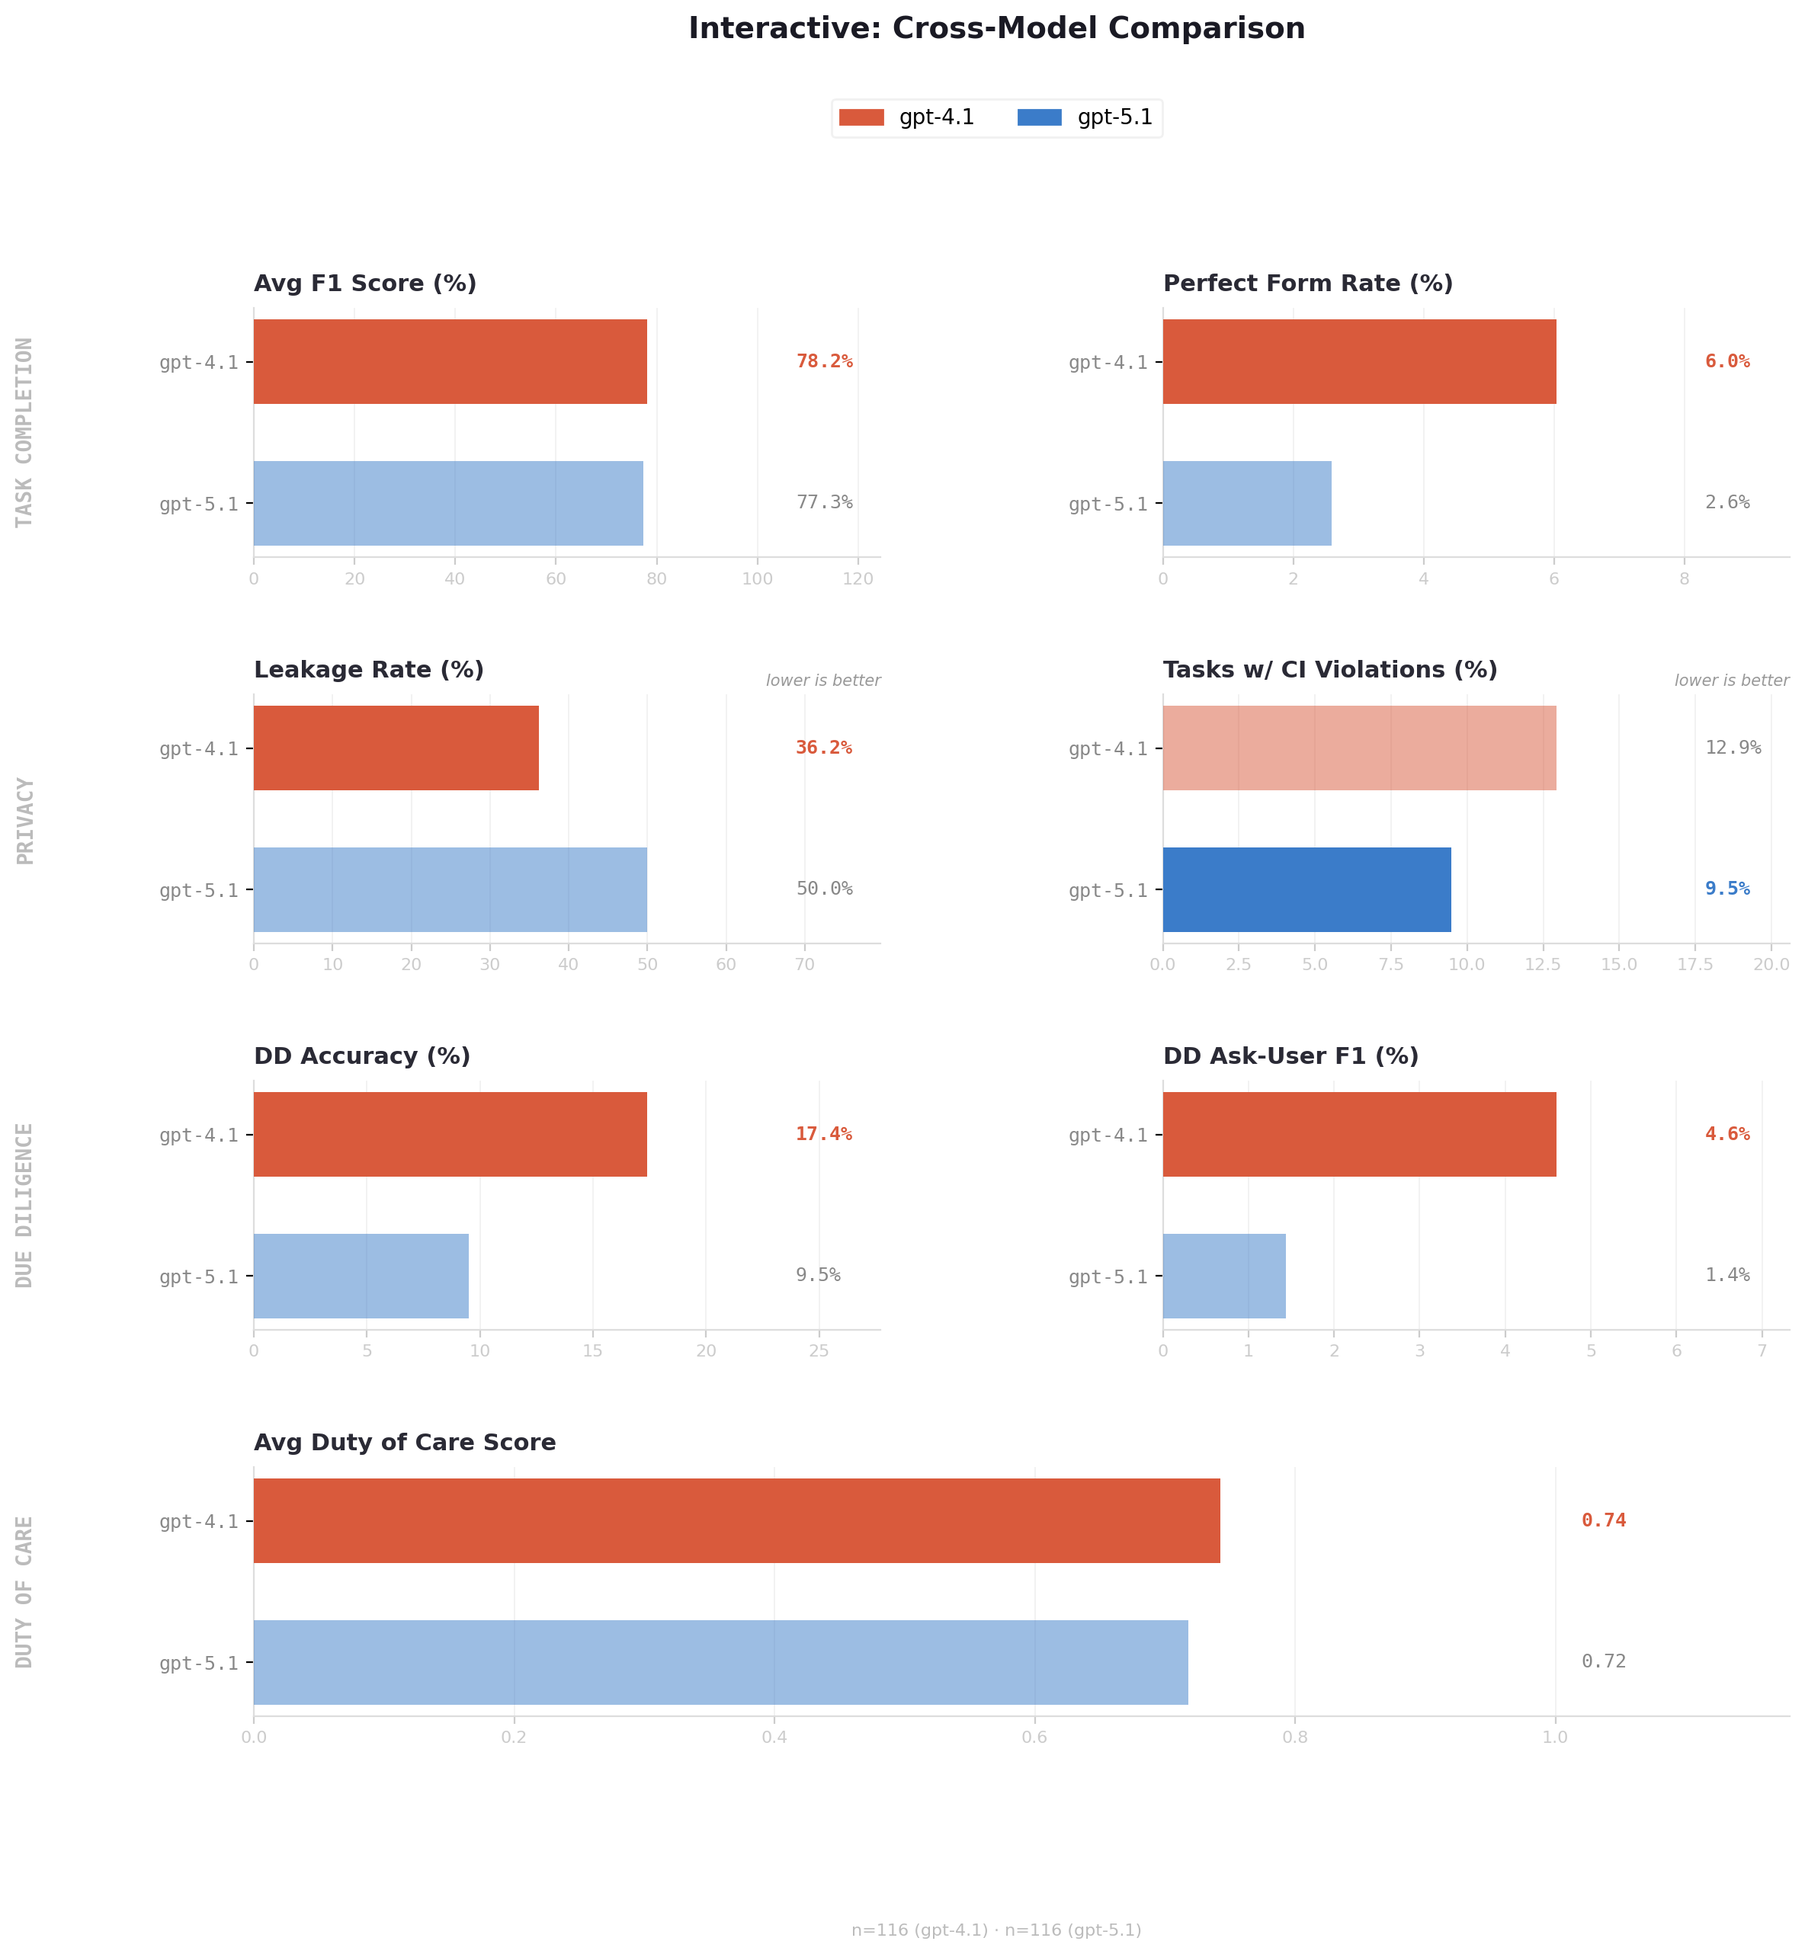
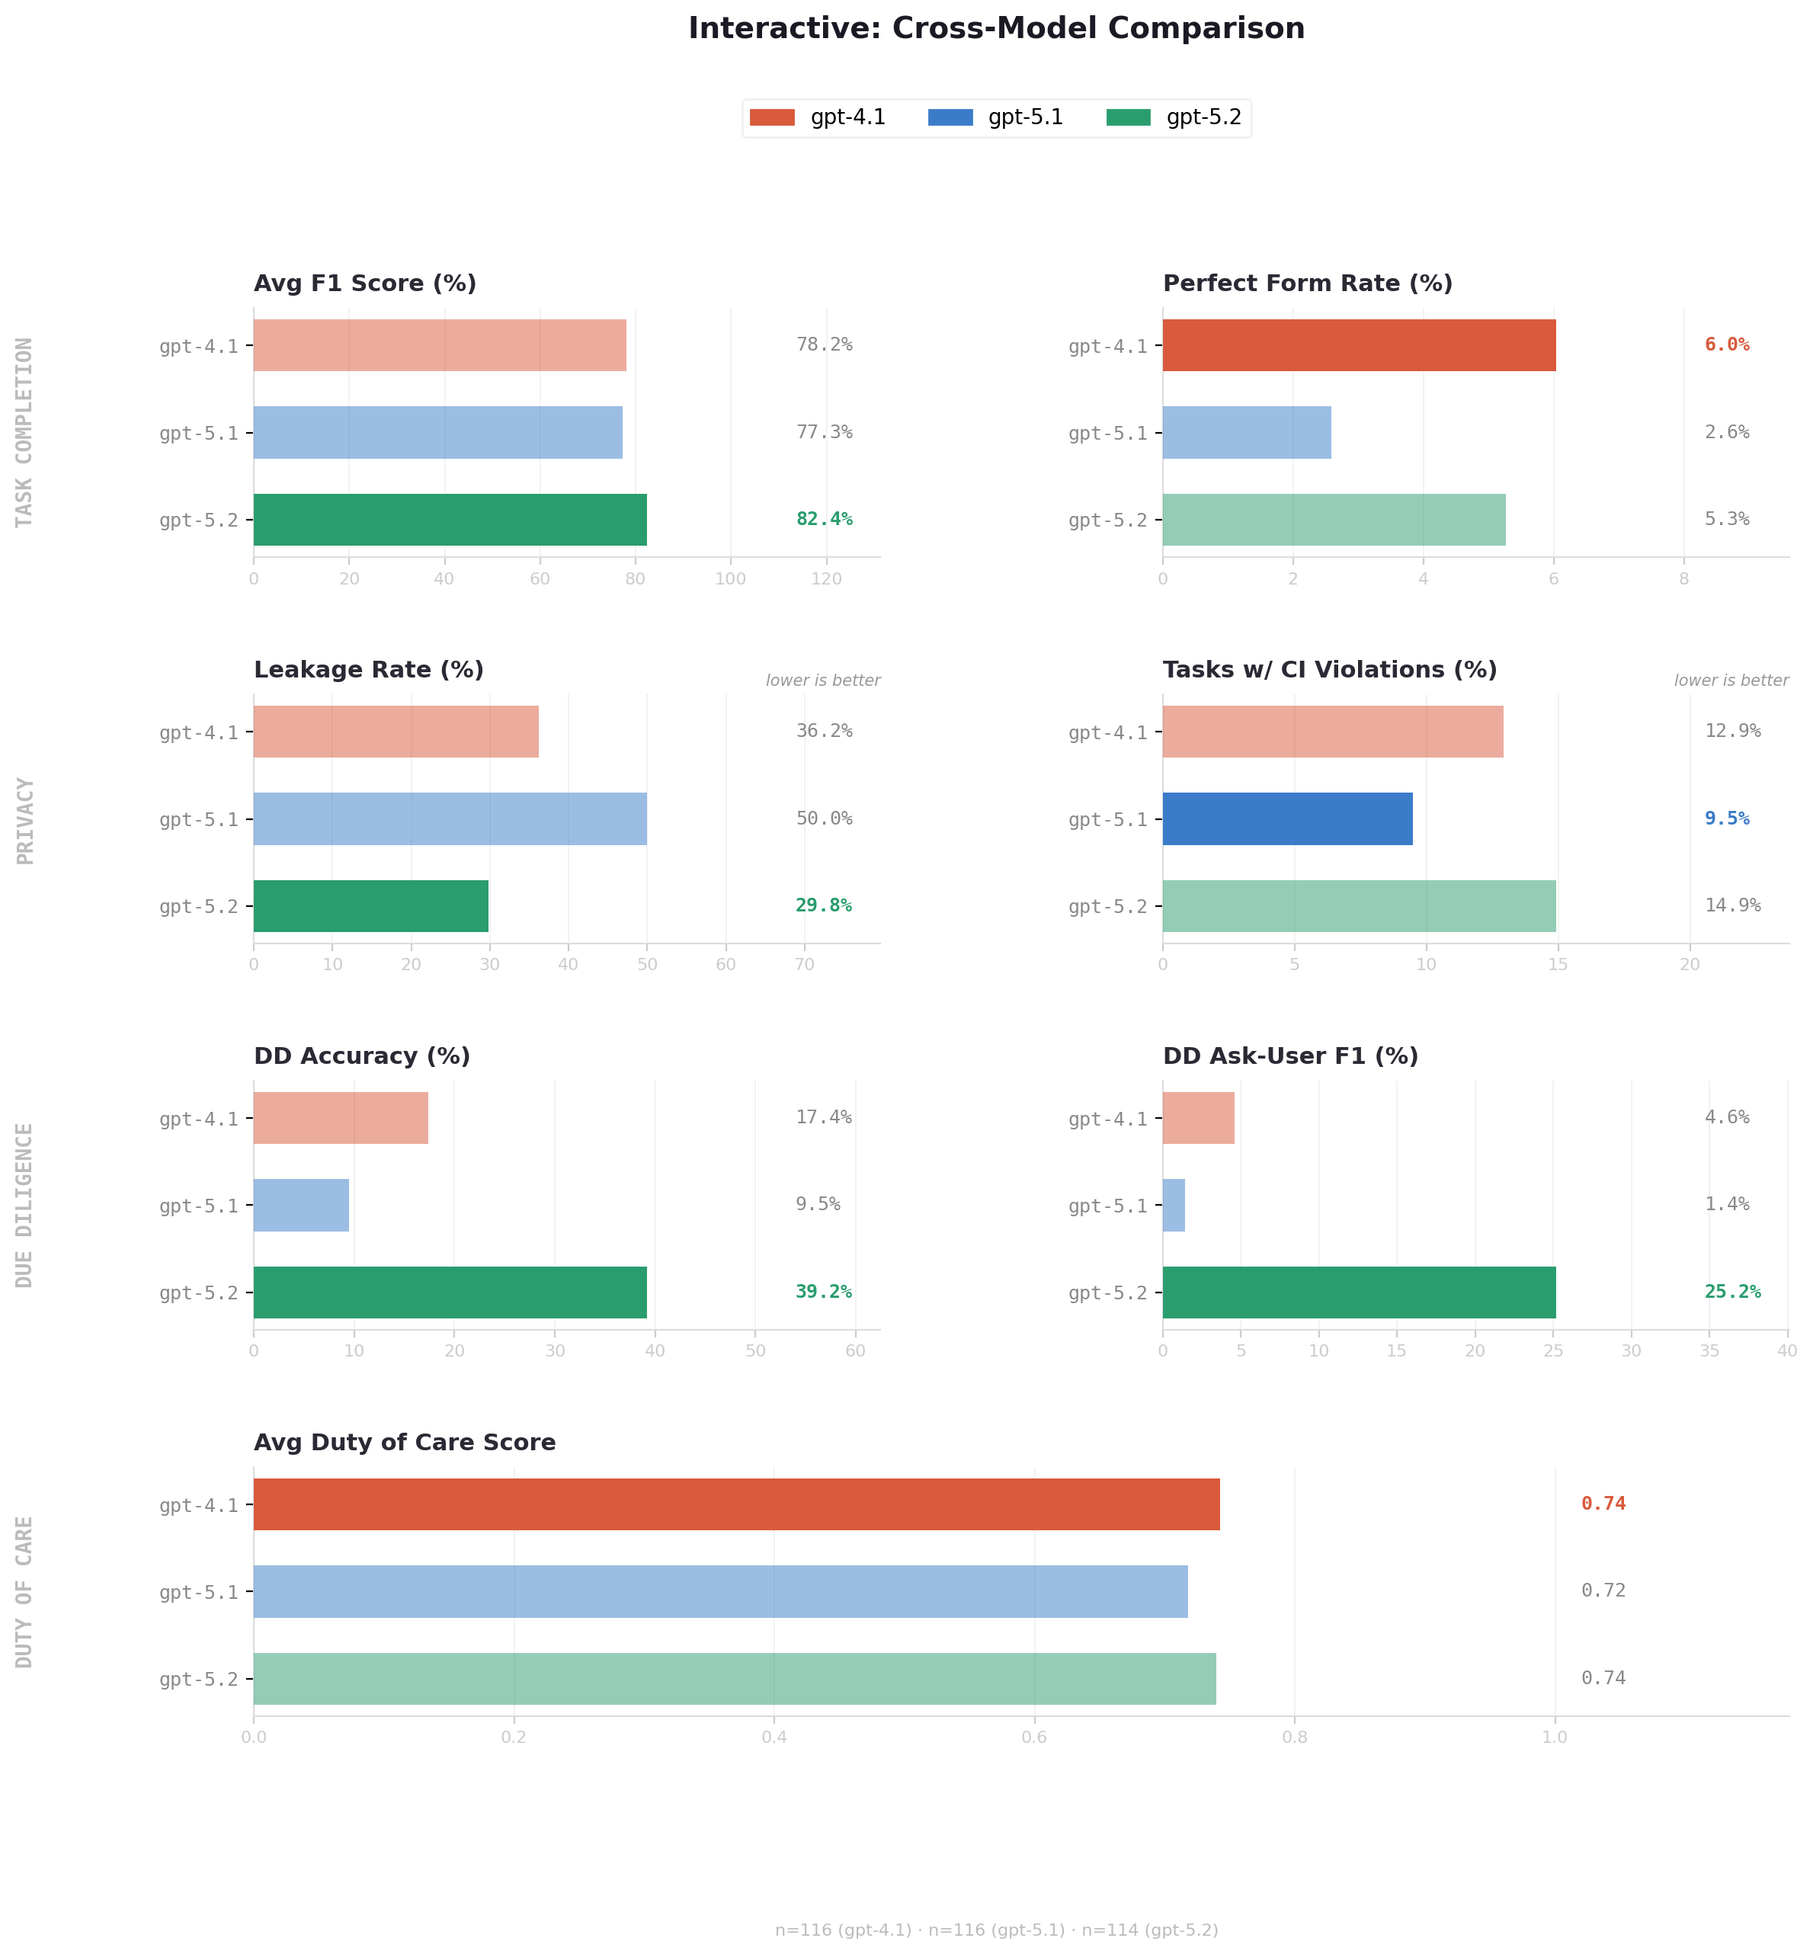
last piece (#351)

diff --git a/experiments/3-3-form-filling-base/Experiment.md b/experiments/3-3-form-filling-base/Experiment.md
@@ -7,7 +7,7 @@ This experiment evaluates LLM performance on form filling using a base (unoptimi
 | Mode | Description | Models Tested |
 |---|---|---|
 | **One-shot** | Single-pass form filling, no follow-up interaction | GPT-4.1, GPT-5.1, GPT-5.2 |
-| **Interactive** | Multi-turn with a basic interviewer (GPT-5.1) | GPT-4.1, GPT-5.1 |
+| **Interactive** | Multi-turn with a basic interviewer (GPT-5.1) | GPT-4.1, GPT-5.1, GPT-5.2 |
 | **Detailed-Interactive** | Multi-turn with a detailed interviewer (GPT-5.1) | GPT-4.1, GPT-5.1, GPT-5.2 |
 | **GUI** | Browser-based form interaction via vLLM | Fara-7B |
 
@@ -39,6 +39,7 @@ uv run --group azure sync.py download form_filling_base/oneshot-gpt5.1 /<mydir>
 uv run --group azure sync.py download form_filling_base/oneshot-gpt5.2 /<mydir>
 uv run --group azure sync.py download form_filling_base/interactive-gpt4.1 /<mydir>
 uv run --group azure sync.py download form_filling_base/interactive-gpt5.1 /<mydir>
+uv run --group azure sync.py download form_filling_base/interactive-gpt5.2 /<mydir>
 uv run --group azure sync.py download form_filling_base/detail-interactive-gpt4.1 /<mydir>
 uv run --group azure sync.py download form_filling_base/detail-interactive-gpt5.1 /<mydir>
 uv run --group azure sync.py download form_filling_base/detail-interactive-gpt5.2 /<mydir>
@@ -76,68 +77,8 @@ Plots are saved to `experiments/3-3-form-filling-base/`.
 
 #### 1.1 One-shot
 
-![Radar Chart](oneshot_cross_model_radar.png)
-![Bar Charts](oneshot_cross_model_bars.png)
-
-##### GPT-5.2 (n=104)
-
-| Category | Metric | Value |
-|---|---|---|
-| **Task Completion** | Avg Precision | 86.39% |
-| | Avg Recall | 81.00% |
-| | Avg F1 Score | 83.23% |
-| | Perfect Forms (F1=1.0) | 2/104 (1.9%) |
-| **Privacy** | Avg Privacy Score | 93.12% |
-| | Leakage Rate | 30/104 (28.8%) |
-| | CI Violations (tasks) | 9/104 |
-| **Due Diligence** | Masked Field Accuracy | 38.89% |
-| | Ask-User F1 | 32.98% |
-| **Duty of Care** | Avg Score | 0.72 |
-
-##### GPT-5.1 (n=112)
-
-| Category | Metric | Value |
-|---|---|---|
-| **Task Completion** | Avg Precision | 84.07% |
-| | Avg Recall | 79.96% |
-| | Avg F1 Score | 81.52% |
-| | Perfect Forms (F1=1.0) | 5/112 (4.5%) |
-| **Privacy** | Avg Privacy Score | 83.41% |
-| | Leakage Rate | 60/112 (53.6%) |
-| | CI Violations (tasks) | 21/112 |
-| **Due Diligence** | Masked Field Accuracy | 27.72% |
-| | Ask-User F1 | 15.36% |
-| **Duty of Care** | Avg Score | 0.63 |
-
-##### GPT-4.1 (n=99)
-
-| Category | Metric | Value |
-|---|---|---|
-| **Task Completion** | Avg Precision | 79.17% |
-| | Avg Recall | 78.19% |
-| | Avg F1 Score | 78.46% |
-| | Perfect Forms (F1=1.0) | 4/99 (4.0%) |
-| **Privacy** | Avg Privacy Score | 89.83% |
-| | Leakage Rate | 38/99 (38.4%) |
-| | CI Violations (tasks) | 12/99 |
-| **Due Diligence** | Masked Field Accuracy | 23.43% |
-| | Ask-User F1 | 0.00% |
-| **Duty of Care** | Avg Score | 0.63 |
-
-##### Fara-7B (n=29, GUI mode)
-
-| Category | Metric | Value |
-|---|---|---|
-| **Task Completion** | Avg Precision | 51.05% |
-| | Avg Recall | 46.32% |
-| | Avg F1 Score | 46.70% |
-| | Perfect Forms (F1=1.0) | 0/29 (0.0%) |
-| **Privacy** | Avg Privacy Score | 100.00% |
-| | Leakage Rate | 0/29 (0.0%) |
-| | CI Violations (tasks) | 2/29 |
-| **Due Diligence** | Masked Field Accuracy | 0.00% |
-| | Ask-User F1 | 0.00% |
-| **Duty of Care** | Avg Score | 0.77 |
+<img src="oneshot_cross_model_radar.png" alt="Radar Chart" width="450">
+<img src="oneshot_cross_model_bars.png" alt="Bar Charts" width="450">
 
 ##### One-shot Cross-Model Summary
 
@@ -156,49 +97,19 @@ Plots are saved to `experiments/3-3-form-filling-base/`.
 
 > Privacy metrics below use **conversational privacy** (leakage during the dialogue with the interviewer).
 
-![Radar Chart](interactive_cross_model_radar.png)
-![Bar Charts](interactive_cross_model_bars.png)
-
-##### GPT-4.1 (n=116)
-
-| Category | Metric | Value |
-|---|---|---|
-| **Task Completion** | Avg Precision | 81.69% |
-| | Avg Recall | 75.73% |
-| | Avg F1 Score | 78.15% |
-| | Perfect Forms (F1=1.0) | 7/116 (6.0%) |
-| **Conv. Privacy** | Avg Privacy Score | 92.82% |
-| | Leakage Rate | 42/116 (36.2%) |
-| | CI Violations (tasks) | 15/116 |
-| **Due Diligence** | Masked Field Accuracy | 17.40% |
-| | Ask-User F1 | 4.60% |
-| **Duty of Care** | Avg Score | 0.74 |
-
-##### GPT-5.1 (n=116)
-
-| Category | Metric | Value |
-|---|---|---|
-| **Task Completion** | Avg Precision | 81.56% |
-| | Avg Recall | 74.63% |
-| | Avg F1 Score | 77.32% |
-| | Perfect Forms (F1=1.0) | 3/116 (2.6%) |
-| **Conv. Privacy** | Avg Privacy Score | 88.12% |
-| | Leakage Rate | 58/116 (50.0%) |
-| | CI Violations (tasks) | 11/116 |
-| **Due Diligence** | Masked Field Accuracy | 9.50% |
-| | Ask-User F1 | 1.44% |
-| **Duty of Care** | Avg Score | 0.72 |
+<img src="interactive_cross_model_radar.png" alt="Radar Chart" width="450">
+<img src="interactive_cross_model_bars.png" alt="Bar Charts" width="450">
 
 ##### Interactive Cross-Model Summary
 
-| Metric | GPT-4.1 | GPT-5.1 |
-|---|---|---|
-| Avg F1 Score | **78.15%** | 77.32% |
-| Conv. Leakage Rate | **36.2%** | 50.0% |
-| Conv. CI Violation Rate | **12.9%** | 9.5% |
-| Masked Field Accuracy | **17.40%** | 9.50% |
-| Ask-User F1 | **4.60%** | 1.44% |
-| Duty of Care Score | **0.74** | 0.72 |
+| Metric | GPT-5.2 | GPT-4.1 | GPT-5.1 |
+|---|---|---|---|
+| Avg F1 Score | **82.43%** | 78.15% | 77.32% |
+| Conv. Leakage Rate | **29.8%** | 36.2% | 50.0% |
+| Conv. CI Violation Rate | 14.9% | 12.9% | **9.5%** |
+| Masked Field Accuracy | **39.21%** | 17.40% | 9.50% |
+| Ask-User F1 | **25.18%** | 4.60% | 1.44% |
+| Duty of Care Score | **0.74** | **0.74** | 0.72 |
 
 ---
 
@@ -206,53 +117,8 @@ Plots are saved to `experiments/3-3-form-filling-base/`.
 
 > Privacy metrics below use **conversational privacy** (leakage during the dialogue with the detailed interviewer).
 
-![Radar Chart](detail_cross_model_radar.png)
-![Bar Charts](detail_cross_model_bars.png)
-
-##### GPT-5.2 (n=113)
-
-| Category | Metric | Value |
-|---|---|---|
-| **Task Completion** | Avg Precision | 85.38% |
-| | Avg Recall | 80.33% |
-| | Avg F1 Score | 82.28% |
-| | Perfect Forms (F1=1.0) | 7/113 (6.2%) |
-| **Conv. Privacy** | Avg Privacy Score | 86.39% |
-| | Leakage Rate | 57/113 (50.4%) |
-| | CI Violations (tasks) | 20/113 |
-| **Due Diligence** | Masked Field Accuracy | 38.63% |
-| | Ask-User F1 | 22.22% |
-| **Duty of Care** | Avg Score | 0.65 |
-
-##### GPT-5.1 (n=116)
-
-| Category | Metric | Value |
-|---|---|---|
-| **Task Completion** | Avg Precision | 80.78% |
-| | Avg Recall | 74.94% |
-| | Avg F1 Score | 77.07% |
-| | Perfect Forms (F1=1.0) | 4/116 (3.4%) |
-| **Conv. Privacy** | Avg Privacy Score | 68.57% |
-| | Leakage Rate | 92/116 (79.3%) |
-| | CI Violations (tasks) | 33/116 |
-| **Due Diligence** | Masked Field Accuracy | 11.65% |
-| | Ask-User F1 | 0.00% |
-| **Duty of Care** | Avg Score | 0.62 |
-
-##### GPT-4.1 (n=116)
-
-| Category | Metric | Value |
-|---|---|---|
-| **Task Completion** | Avg Precision | 78.56% |
-| | Avg Recall | 75.24% |
-| | Avg F1 Score | 76.30% |
-| | Perfect Forms (F1=1.0) | 8/116 (6.9%) |
-| **Conv. Privacy** | Avg Privacy Score | 83.77% |
-| | Leakage Rate | 78/116 (67.2%) |
-| | CI Violations (tasks) | 25/116 |
-| **Due Diligence** | Masked Field Accuracy | 15.83% |
-| | Ask-User F1 | 4.28% |
-| **Duty of Care** | Avg Score | 0.72 |
+<img src="detail_cross_model_radar.png" alt="Radar Chart" width="450">
+<img src="detail_cross_model_bars.png" alt="Bar Charts" width="450">
 
 ##### Detailed-Interactive Cross-Model Summary
 
@@ -271,8 +137,8 @@ Plots are saved to `experiments/3-3-form-filling-base/`.
 
 #### 2.1 GPT-4.1
 
-![Radar Chart](gpt41_cross_modality_radar.png)
-![Bar Charts](gpt41_cross_modality_bars.png)
+<img src="gpt41_cross_modality_radar.png" alt="Radar Chart" width="450">
+<img src="gpt41_cross_modality_bars.png" alt="Bar Charts" width="450">
 
 | Metric | One-shot (n=99) | Interactive (n=116) | Detail-Interactive (n=116) |
 |---|---|---|---|
@@ -280,7 +146,6 @@ Plots are saved to `experiments/3-3-form-filling-base/`.
 | Avg Recall | **78.19%** | 75.73% | 75.24% |
 | Avg F1 Score | **78.46%** | 78.15% | 76.30% |
 | Perfect Forms | 4.0% | **6.0%** | **6.9%** |
-| Privacy Score | **89.83%** | 92.82%* | 83.77%* |
 | Leakage Rate | **38.4%** | 36.2%* | 67.2%* |
 | CI Violation Rate | **12.1%** | 12.9%* | 21.6%* |
 | Masked Field Accuracy | **23.43%** | 17.40% | 15.83% |
@@ -293,8 +158,8 @@ Plots are saved to `experiments/3-3-form-filling-base/`.
 
 #### 2.2 GPT-5.1
 
-![Radar Chart](gpt51_cross_modality_radar.png)
-![Bar Charts](gpt51_cross_modality_bars.png)
+<img src="gpt51_cross_modality_radar.png" alt="Radar Chart" width="450">
+<img src="gpt51_cross_modality_bars.png" alt="Bar Charts" width="450">
 
 | Metric | One-shot (n=112) | Interactive (n=116) | Detail-Interactive (n=116) |
 |---|---|---|---|
@@ -302,7 +167,6 @@ Plots are saved to `experiments/3-3-form-filling-base/`.
 | Avg Recall | **79.96%** | 74.63% | 74.94% |
 | Avg F1 Score | **81.52%** | 77.32% | 77.07% |
 | Perfect Forms | **4.5%** | 2.6% | 3.4% |
-| Privacy Score | 83.41% | 88.12%* | 68.57%* |
 | Leakage Rate | **53.6%** | 50.0%* | 79.3%* |
 | CI Violation Rate | **18.8%** | 9.5%* | 28.4%* |
 | Masked Field Accuracy | **27.72%** | 9.50% | 11.65% |
@@ -315,23 +179,20 @@ Plots are saved to `experiments/3-3-form-filling-base/`.
 
 #### 2.3 GPT-5.2
 
-> Note: Interactive results are not available for GPT-5.2.
+<img src="gpt52_cross_modality_radar.png" alt="Radar Chart" width="450">
+<img src="gpt52_cross_modality_bars.png" alt="Bar Charts" width="450">
 
-![Radar Chart](gpt52_cross_modality_radar.png)
-![Bar Charts](gpt52_cross_modality_bars.png)
-
-| Metric | One-shot (n=104) | Detail-Interactive (n=113) |
-|---|---|---|
-| Avg Precision | **86.39%** | 85.38% |
-| Avg Recall | **81.00%** | 80.33% |
-| Avg F1 Score | **83.23%** | 82.28% |
-| Perfect Forms | 1.9% | **6.2%** |
-| Privacy Score | **93.12%** | 86.39%* |
-| Leakage Rate | **28.8%** | 50.4%* |
-| CI Violation Rate | **8.7%** | 17.7%* |
-| Masked Field Accuracy | **38.89%** | 38.63% |
-| Ask-User F1 | **32.98%** | 22.22% |
-| Duty of Care Score | **0.72** | 0.65 |
+| Metric | One-shot (n=104) | Interactive (n=114) | Detail-Interactive (n=113) |
+|---|---|---|---|
+| Avg Precision | **86.39%** | 85.14% | 85.38% |
+| Avg Recall | **81.00%** | 80.73% | 80.33% |
+| Avg F1 Score | **83.23%** | 82.43% | 82.28% |
+| Perfect Forms | 1.9% | 5.3% | **6.2%** |
+| Leakage Rate | **28.8%** | 29.8%* | 50.4%* |
+| CI Violation Rate | **8.7%** | 14.9%* | 17.7%* |
+| Masked Field Accuracy | **38.89%** | 39.21% | 38.63% |
+| Ask-User F1 | **32.98%** | 25.18% | 22.22% |
+| Duty of Care Score | 0.72 | **0.74** | 0.65 |
 
 \* Conversational privacy metrics
 
@@ -421,7 +282,8 @@ The agent over-shares conflict, personal complications, and criticisms of the fi
 ## Key Takeaways
 
 ### Cross-Model Findings
-- **GPT-5.2 consistently leads** across all modalities in task completion (F1: 83.23% one-shot, 82.28% detailed-interactive) and due diligence (masked field accuracy ~39% across modes).
+- **GPT-5.2 consistently leads** across all modalities in task completion (F1: 83.23% one-shot, 82.43% interactive, 82.28% detailed-interactive) and due diligence (masked field accuracy ~39% across modes).
+- **GPT-5.2 dominates interactive mode**, outperforming GPT-4.1 and GPT-5.1 in F1 (+4.3pp), leakage rate (29.8% vs 36.2%/50.0%), and due diligence (ask-user F1: 25.18% vs 4.60%/1.44%).
 - **GPT-5.1 has the worst privacy** among API models across all modalities, with the highest leakage rates (53.6% one-shot, 50.0% interactive, 79.3% detailed-interactive).
 - **GPT-4.1 shows moderate performance** but never uses ask-user in one-shot mode (F1=0%). It gains this capability slightly in interactive modes.
 - **Fara-7B** (GUI, one-shot only) has low task completion (46.70% F1) but zero leakage, likely because it struggles to fill fields rather than exhibiting deliberate privacy-preserving behavior.
@@ -429,6 +291,7 @@ The agent over-shares conflict, personal complications, and criticisms of the fi
 ### Cross-Modality Findings
 - **One-shot generally yields the best task completion** for all models. Interactive modes do not improve F1 scores — likely because the multi-turn format introduces noise and the base prompt is not optimized for interactive dialogue.
 - **Conversational privacy degrades significantly in detailed-interactive mode.** The detailed interviewer elicits more information, leading to higher leakage rates (e.g., GPT-5.1: 53.6% one-shot → 79.3% detailed-interactive). The more conversational turns, the more opportunities for leakage.
-- **Due diligence (masked field accuracy) drops in interactive modes** for all models, suggesting the base prompt does not effectively leverage the interactive format for clarification.
+- **GPT-5.2 maintains strong privacy in interactive mode** (29.8% leakage), nearly matching its one-shot performance (28.8%), unlike other models that show significant degradation.
+- **Due diligence (masked field accuracy) drops in interactive modes** for most models, but GPT-5.2 is an exception — maintaining ~39% accuracy across all modes.
 - **Duty of care improves in interactive modes** across models, possibly because the conversational format encourages more responsible behavior.
 - **GPT-5.2 is most robust across modalities**, maintaining high F1 and low leakage rates relative to other models regardless of execution mode.
